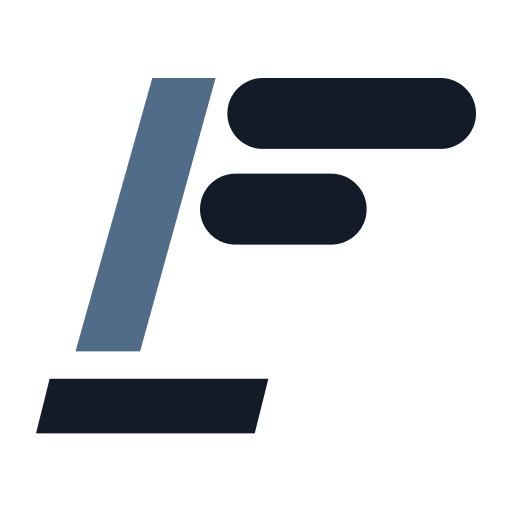
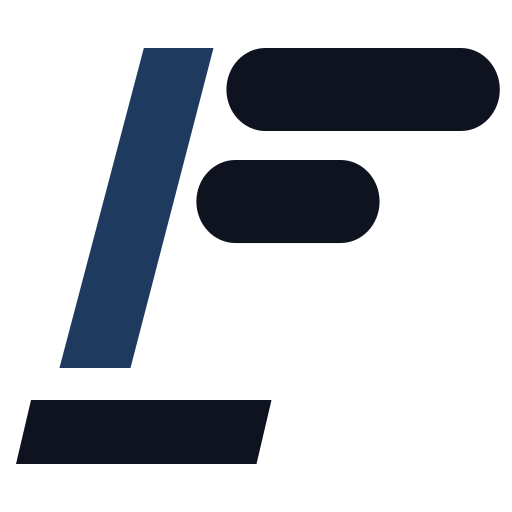
fix(plugin): align workflow guidance and current branding
Why:
- Keep the standalone plugin aligned with the reviewed MCP workflows and the current Flopinio artwork.

What:
- Clarify result IDs, structured query filters, approval status, triage application, and draft-only invoice preparation/application.
- Copy the current app icon into both packaged PNG assets and declare the Claude directory icon path.
- Bump both package manifests to 0.2.1 while preserving identities, MCP connection settings, and portable interface metadata.

Testing:
- claude plugin validate --strict . passed.
- Parsed all JSON manifests and skill YAML; verified synchronized versions and asset references.
- Confirmed both 512x512 PNG assets exactly match the current application icon by SHA-256.
- git diff --check passed.

Changed region(s): [[0.0312, 0.0938, 1.0, 0.9062], [0.4375, 0.4688, 0.6562, 0.5]]

diff --git a/skills/flopinio-workspace/SKILL.md b/skills/flopinio-workspace/SKILL.md
@@ -15,12 +15,26 @@ Use the Flopinio MCP server as the source of truth for workspace records.
 4. Use the narrowest tool that matches the requested action.
 5. Keep delivery work logs untimed: omit `duration_minutes`. Use time-entry tools for billable time; never use work logs as a tracked-time substitute.
 
+## Read tools and result IDs
+
+- Use `search` for workspace discovery and pass its opaque result `id` to `fetch`. Do not pass a record or knowledge-document UUID to `fetch`.
+- Use `knowledge-search` or `record-similarity-search` for indexed context. Pass a returned `document_id` to `knowledge-fetch-document`, or a chunk ID to `knowledge-fetch-chunk`.
+- Use `assistant-query` for structured record lists and summaries, and `metrics-query` for analytics. Build calls from the advertised schemas and allowed-value guidance; omit optional fields only when that schema permits it.
+- Assistant-query filters are `field`/`operator`/`value` objects in an array. Metrics-query filters are an object mapping supported field names to values. Supported filters and date windows depend on the selected query or metric.
+
 ## Writes And Approvals
 
 - Only create or update records when the user asks for the change or the write is an explicit step in the requested workflow.
 - Preserve useful existing descriptions and context when updating records.
-- Flopinio write tools normally stage approval-backed actions. Report an action as pending when the tool returns an approval or review URL; do not claim the record changed until execution is confirmed.
+- Flopinio write tools normally stage approval-backed actions. When `approval_required` is true or the approval is pending, report the action as pending and link its review URL. Do not claim the record changed until execution is confirmed.
+- Request `self_approve` only for an explicitly authorized write when the token permits it. A successful tool response alone does not establish that the write executed; check the returned approval and agent-run status.
 - Keep invoice writes, approval resolution, and other financially significant or destructive operations explicit. Do not broaden their scope or bypass Flopinio approval controls.
+
+## Triage and invoice drafts
+
+- `request-run-triage` persists a triage run without applying its recommendations. Use `request-apply-triage` only after a successful run and authorization to update the request; application can change summary, status, triage state, urgency, business value, response need, and project routing.
+- `invoice-prepare-draft` analyzes a visible draft invoice and persists suggested line items and findings in an agent run. It does not apply the line items. Inspect the returned run and require successful preparation before the next step.
+- `invoice-apply-prepared-draft` applies the latest successful preparation to a draft invoice through the normal approval controls. Neither invoice tool issues, finalizes, or sends an invoice.
 
 ## OAuth Permissions
 

diff --git a/README.md b/README.md
@@ -14,11 +14,21 @@ files. The hosted service remains subject to Flopinio's terms and account access
 
 - Claude: `.claude-plugin/plugin.json` and `.mcp.json`.
 - ChatGPT and Codex portable package: `plugin.json` and `mcp.json`.
-- Both formats share `skills/flopinio-workspace/SKILL.md` and version `0.2.0`.
+- Both formats share `skills/flopinio-workspace/SKILL.md` and version `0.2.1`.
 
 The OpenAI package name preserves the existing published plugin identity.
 Changes to this repository do not update any directory listing automatically
 until a release source and its publication process are configured.
+
+Tool descriptions, annotations, and input schemas come from the hosted MCP
+server at connection time. Server contract fixes require an application
+deployment; this package carries the shared workflow guidance and branding.
+
+Both packaged PNGs are exact copies of the current application's 512-by-512
+`public/icon.png`, derived from `app/assets/images/flopinio_logo_svg.svg`.
+The Claude manifest references `assets/icon.png`; the portable manifest
+references both PNGs. An icon uploaded separately for the MCP connector
+listing must be updated separately in the submission portal.
 
 ## Connect
 
